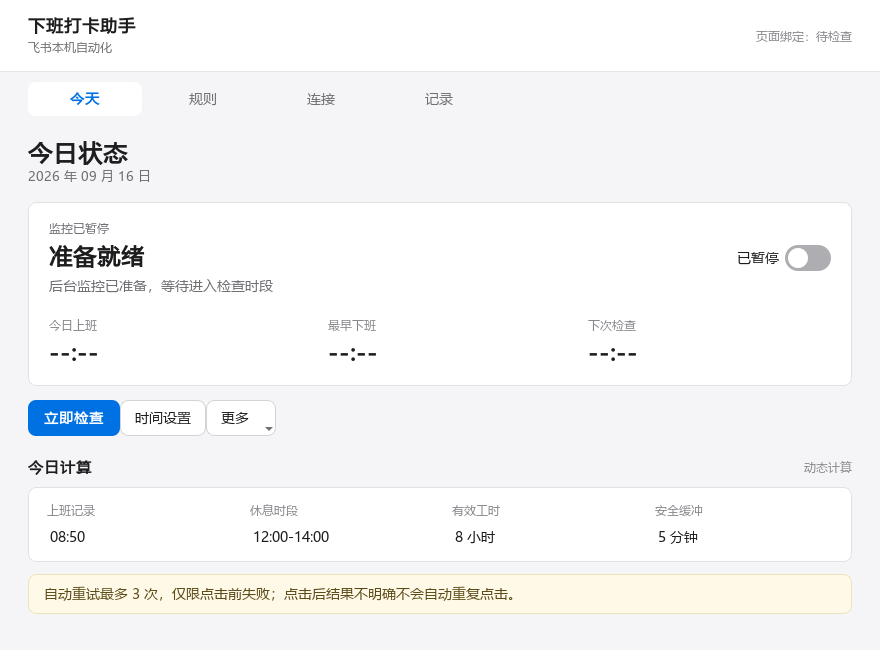
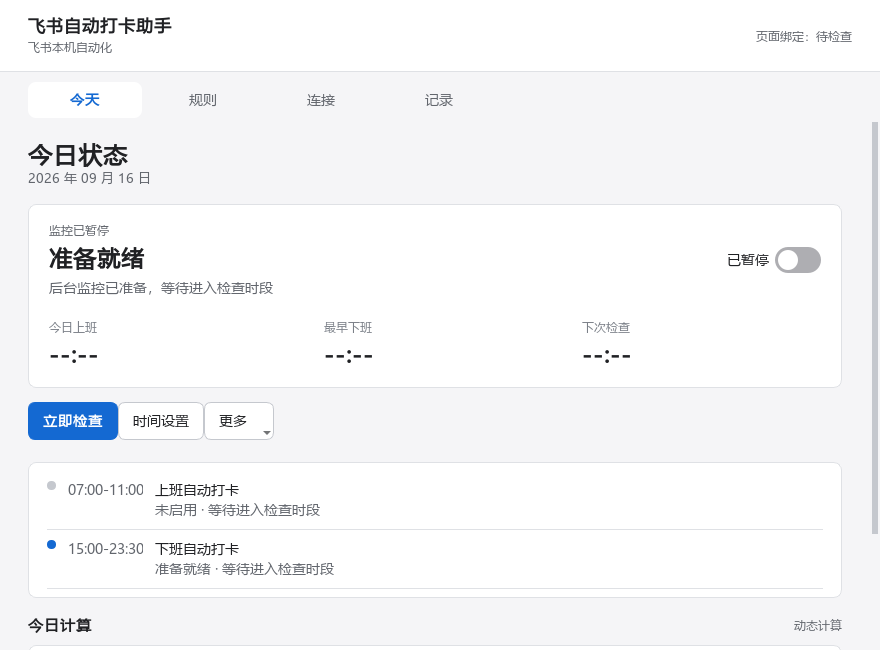
docs: 准备 v1.1.0 发布

diff --git a/scripts/capture_readme_screenshot.py b/scripts/capture_readme_screenshot.py
@@ -8,7 +8,7 @@ from PySide6.QtGui import QFontDatabase
 from PySide6.QtWidgets import QApplication
 
 from clockout.config import AppConfig, save_config
-from clockout.qt_app import APP_QSS, AppController, _apply_light_palette
+from clockout.qt_app import AppController
 from clockout.runtime import RuntimePaths
 
 
@@ -32,12 +32,11 @@ def main() -> None:
                 monitor_enabled=False,
                 start_with_windows=False,
                 trusted_container_fingerprint="",
+                theme_mode="light",
             ),
         )
         app = QApplication([])
         QFontDatabase.addApplicationFont(r"C:\Windows\Fonts\msyh.ttc")
-        _apply_light_palette(app)
-        app.setStyleSheet(APP_QSS)
         controller = AppController(app, paths, background=False)
         try:
             app.processEvents()

diff --git a/src/clockout/gui.py b/src/clockout/gui.py
@@ -66,7 +66,7 @@ class ClockoutDemoApp:
         self.root.after(1000, self._tick)
 
     def _build_window(self) -> None:
-        self.root.title("飞书动态下班打卡助手 - Demo")
+        self.root.title("飞书自动打卡助手 - Demo")
         self.root.geometry("780x660")
         self.root.minsize(700, 610)
         self.root.configure(bg="#F3F5F7")
@@ -128,7 +128,7 @@ class ClockoutDemoApp:
         outer = ttk.Frame(self.root, padding=(24, 20))
         outer.pack(fill="both", expand=True)
 
-        ttk.Label(outer, text="飞书动态下班打卡助手", style="Title.TLabel").pack(
+        ttk.Label(outer, text="飞书自动打卡助手", style="Title.TLabel").pack(
             anchor="w"
         )
         ttk.Label(

diff --git a/src/clockout/qt_app.py b/src/clockout/qt_app.py
@@ -108,7 +108,7 @@ def _parse_ipc_command(payload: bytes) -> str | None:
     return None
 
 
-APP_TITLE = "飞书动态打卡助手"
+APP_TITLE = "飞书自动打卡助手"
 STATUS_TEXT = {
     "idle": "准备就绪",
     "checking": "正在检查",
@@ -250,7 +250,7 @@ class MainWindow(QMainWindow):
         top.setContentsMargins(28, 14, 28, 14)
         identity = QVBoxLayout()
         identity.setSpacing(1)
-        brand = QLabel("飞书打卡助手", objectName="brand")
+        brand = QLabel(APP_TITLE, objectName="brand")
         subtitle = QLabel("飞书本机自动化", objectName="eyebrow")
         identity.addWidget(brand)
         identity.addWidget(subtitle)

diff --git a/README.md b/README.md
@@ -1,7 +1,7 @@
 <div align="center">
-  <img src="assets/app-icon.png" width="104" height="104" alt="飞书动态下班打卡助手图标">
-  <h1>飞书动态下班打卡助手</h1>
-  <p>读取实际上班时间，自动计算最早下班时间，并在 Windows 飞书桌面端完成安全打卡。</p>
+  <img src="assets/app-icon.png" width="104" height="104" alt="飞书自动打卡助手图标">
+  <h1>飞书自动打卡助手</h1>
+  <p>在 Windows 飞书桌面端处理可选的上班打卡，并根据实际上班时间安全完成下班打卡。</p>
 
   <p>
     <a href="https://github.com/Liu8Can/feishu-auto-task/releases/latest"><img src="https://img.shields.io/github/v/release/Liu8Can/feishu-auto-task?style=flat-square&label=Release&color=0078D4" alt="最新版本"></a>
@@ -21,15 +21,15 @@
 
 ---
 
-读取当天实际上班时间，自动跳过午休并计算最早下班时间；到点后重新确认页面和按钮，再完成一次下班打卡。
+上班和下班任务可分别设置、独立重试与防重。下班任务会读取当天实际上班时间，自动跳过午休并计算最早时间；每次点击前都会重新确认日期、页面和按钮。
 
 > [!IMPORTANT]
-> 当前稳定版 `v1.0.0` 只自动处理**下班打卡**。自动上班打卡正在开发，计划随 `v1.1.0` 发布；当前尚未支持普通用户试用。
+> `v1.1.0` 支持上班和下班自动打卡。为避免升级后意外操作，**上班自动打卡默认关闭**，需要在“规则”页核对时间范围后手动开启。
 
 ## 界面预览
 
 <p align="center">
-  <img src="docs/images/app-overview.png" width="880" alt="飞书动态下班打卡助手今日状态界面">
+  <img src="docs/images/app-overview.png" width="880" alt="飞书自动打卡助手今日状态界面">
 </p>
 
 ## 它会做什么
@@ -37,20 +37,23 @@
 | 能力 | 当前行为 |
 | --- | --- |
 | 自动进入假勤 | 启动飞书，并从左侧导航栏打开已固定的“假勤” |
+| 自动上班打卡 | 在用户启用后，于设定时段内识别唯一的“上班打卡”按钮并安全执行 |
 | 动态计算下班时间 | 读取实际上班时间，扣除休息时段，再加入有效工时和安全缓冲 |
 | 固定时间模式 | 允许设置固定上下班时间；实际上班较晚时自动顺延 |
+| 独立任务状态 | 上班和下班分别记录结果、尝试次数与防重状态，互不阻断 |
 | 后台运行 | 登录 Windows 后启动，关闭或最小化窗口时进入系统托盘 |
 | 有限重试 | 仅在点击前失败时按设置重试；点击结果不明确时停止自动操作 |
+| 明暗主题 | 支持跟随系统、浅色和深色界面 |
 | 可见诊断 | 显示绑定、页面识别、计算结果、运行记录和失败原因 |
 
 ```mermaid
 flowchart LR
-    A[读取今日上班时间] --> B[扣除休息时段]
-    B --> C[计算最早下班时间]
-    C --> D{时间与页面均通过复核?}
-    D -- 否 --> E[等待下次检查]
-    D -- 是 --> F[执行一次下班打卡]
-    F --> G[核验并记录结果]
+    A[独立检查上下班任务] --> B{动作是否启用且已到时间?}
+    B -- 否 --> C[等待下次检查]
+    B -- 是 --> D[核对日期 页面 按钮和防重状态]
+    D -- 未通过 --> E[按规则有限重试]
+    D -- 通过 --> F[执行对应动作一次]
+    F --> G[独立核验并记录结果]
 ```
 
 ## 开始之前
@@ -73,12 +76,13 @@ flowchart LR
 
 ## 快速开始
 
-1. 打开 [v1.0.0 发布页](https://github.com/Liu8Can/feishu-auto-task/releases/tag/v1.0.0)，下载页面中与版本号一致的 Windows 压缩包。
+1. 打开 [最新发布页](https://github.com/Liu8Can/feishu-auto-task/releases/latest)，下载页面中与版本号一致的 Windows 压缩包。
 2. 解压完整压缩包，双击 `FeishuClockoutAssistant.exe`。
 3. 在飞书中把“假勤”固定到左侧导航栏，并打开今天的考勤页面。
 4. 在助手的“连接”页依次点击“打开飞书假勤”和“重新绑定页面”。
 5. 点击“运行诊断”，确认“今天假勤页已确认”和“页面绑定有效”。
-6. 回到“今天”页核对上班时间与预计下班时间，保持助手在系统托盘运行。
+6. 回到“今天”页核对状态和预计时间；需要上班自动打卡时，先在“规则”页核对时间范围再手动开启。
+7. 保持助手在系统托盘运行。
 
 这是未签名的个人项目，Windows 可能显示来源提示。请只从本仓库发布页下载，并核对发布页中的 SHA-256 校验值。
 
@@ -111,6 +115,8 @@ flowchart LR
 | 有效工作时长 | 8 小时 |
 | 休息时段 | 12:00–14:00，不计入工时 |
 | 安全缓冲 | 5 分钟 |
+| 上班检查时段 | 07:00–11:00，默认关闭 |
+| 下班检查时段 | 15:00–23:30，默认开启 |
 | 点击前重试 | 最多 3 次，间隔 5 分钟 |
 
 例如：当天 08:31 上班，午休 2 小时，有效工时 8 小时，再加 5 分钟安全缓冲，最早下班时间为 **18:36**。
@@ -125,19 +131,33 @@ flowchart LR
 
 ## 点击前的安全门槛
 
-只有下面条件**全部满足**时，程序才会执行下班打卡：
+只有下面条件**全部满足**时，程序才会执行对应的上班或下班打卡：
 
 - 今天属于已配置的工作日，当前时间位于检查时段内。
-- 当前时间不早于计算出的最早下班时间。
+- 对应动作已经启用，当前时间满足该动作的检查规则。
 - Windows 桌面已解锁且可以交互。
 - 页面日期为今天，绑定信息与当前假勤页面一致。
-- 页面中只有一个可见、可用的“下班打卡”按钮。
+- 页面中只有一个可见、可用且与当前动作一致的打卡按钮。
 - 点击前连续两次页面快照一致。
-- 当天尚未开始过打卡点击。
+- 当天对应动作尚未开始过打卡点击。
 
-点击前失败可以有限重试；只要点击调用已经开始，即使最终结果无法确认，当天也不会自动重复点击。此时请以飞书中的最终考勤记录为准。
+上下班分别防重，互不阻断。点击前失败可以有限重试；只要某一动作的点击调用已经开始，即使最终结果无法确认，当天也不会自动重复该动作。此时请以飞书中的最终考勤记录为准。
 
 ## 常见问题
+
+<details>
+<summary><strong>为什么上班没有自动打卡？</strong></summary>
+
+上班自动打卡默认关闭。请先在“连接”页确认绑定和诊断正常，再到“规则”页核对上班检查时段并手动开启。
+
+</details>
+
+<details>
+<summary><strong>升级后会自动开启上班打卡吗？</strong></summary>
+
+不会。`v1.0.0` 的配置会自动迁移并保留下班设置，上班自动打卡仍保持关闭。
+
+</details>
 
 <details>
 <summary><strong>页面绑定一直没有结果怎么办？</strong></summary>
@@ -189,9 +209,9 @@ flowchart LR
 | 版本 | 状态 | 内容 |
 | --- | --- | --- |
 | `v1.0.0` | 已发布 | 读取上班时间、计算最早下班时间、自动下班打卡 |
-| `v1.1.0` | 开发中 | 可配置的自动上班打卡时段、独立防重、有限重试和结果核验 |
+| `v1.1.0` | 已发布 | 可配置的自动上班打卡、双动作独立防重、有限重试、结果核验和明暗主题 |
 
-上班自动打卡同样受 Windows 桌面状态限制：电脑关机、睡眠、锁屏或尚未登录时无法操作飞书。功能完成验证后才会合并到稳定版。
+上班自动打卡同样受 Windows 桌面状态限制：电脑关机、锁屏或尚未登录时无法操作飞书；睡眠恢复后也必须处于已登录、已解锁状态。当前自动化测试使用模拟页面，尚未替代首次真实上班场景观察。
 
 ## 开发与构建
 

diff --git a/packaging/release-notes-v1.1.0.md b/packaging/release-notes-v1.1.0.md
@@ -1,0 +1,26 @@
+## 飞书自动打卡助手 v1.1.0
+
+本版新增可选的上班自动打卡，并将上下班任务升级为独立调度、独立状态和独立防重。为避免升级后意外点击，上班自动打卡默认关闭，需要用户核对时间范围后手动启用。
+
+### 新增与改进
+
+- 新增上班自动打卡，可分别设置上下班检查时间范围和启用状态。
+- 上下班任务独立记录尝试次数、结果和重试状态，互不影响。
+- 新增一次性点击令牌，点击前再次核对日期、动作、页面和按钮身份。
+- 点击一旦开始，结果不明确时不会自动重复点击，只继续核验飞书记录。
+- 旧版配置和下班状态会自动迁移；升级后仍默认只启用下班自动打卡。
+- 新增跟随系统、浅色、深色三种界面主题。
+- 系统从睡眠或长时间停顿恢复后，会重新安排仍在有效时间范围内的检查。
+
+### 使用前必读
+
+- 上班自动打卡默认关闭。请先确认飞书“假勤”页面能够正常识别，再设置时间范围并手动启用。
+- 请先将“假勤”固定到飞书左侧导航栏，并按 README 完成首次绑定。
+- 到达检查时间时，电脑仍需开机、唤醒、已登录且桌面已解锁。
+- 278 项自动化测试均使用模拟页面，不连接或点击真实飞书；上班自动打卡尚未经过真实上班场景验证。
+- 当前按固定星期判断工作日，未自动接入法定节假日和调休安排。
+- 飞书页面结构或文案变化可能导致识别失败，请以飞书中的最终考勤记录为准。
+
+### 升级说明
+
+`v1.0.0` 配置会自动迁移并保留原下班时间范围。`v1.1.0` 会写入新版配置和状态格式，降级前请先备份 `%LOCALAPPDATA%\FeishuClockoutAssistant`。
